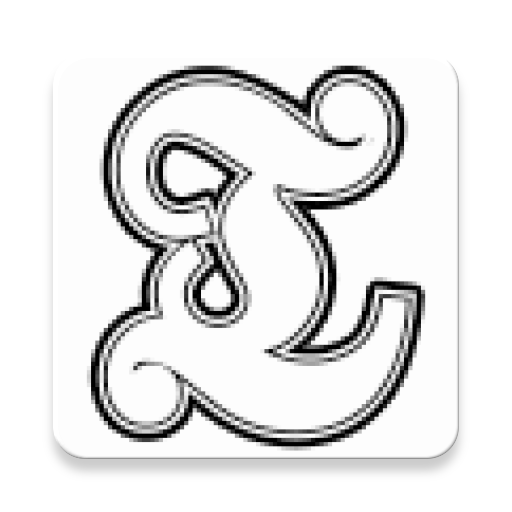
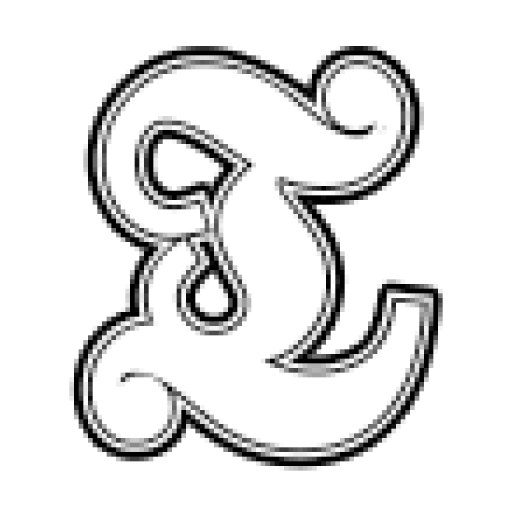
Forbedret app-ikonet, nå gjennomsiktig rundt

Changed region(s): [[0.0938, 0.0625, 0.9062, 0.9375]]

diff --git a/Tungrocken/app/src/main/java/tungrocken/example/com/tungrocken/MainActivity.java b/Tungrocken/app/src/main/java/tungrocken/example/com/tungrocken/MainActivity.java
@@ -23,6 +23,7 @@ public class MainActivity extends AppCompatActivity {
         getSupportActionBar().setIcon(R.drawable.toolbarlogo);
         getSupportActionBar().setDisplayShowTitleEnabled(false);
 
+        // Oppsett av floating action button
         FloatingActionButton fab = (FloatingActionButton) findViewById(R.id.fab);
         fab.setOnClickListener(new View.OnClickListener() {
             @Override
